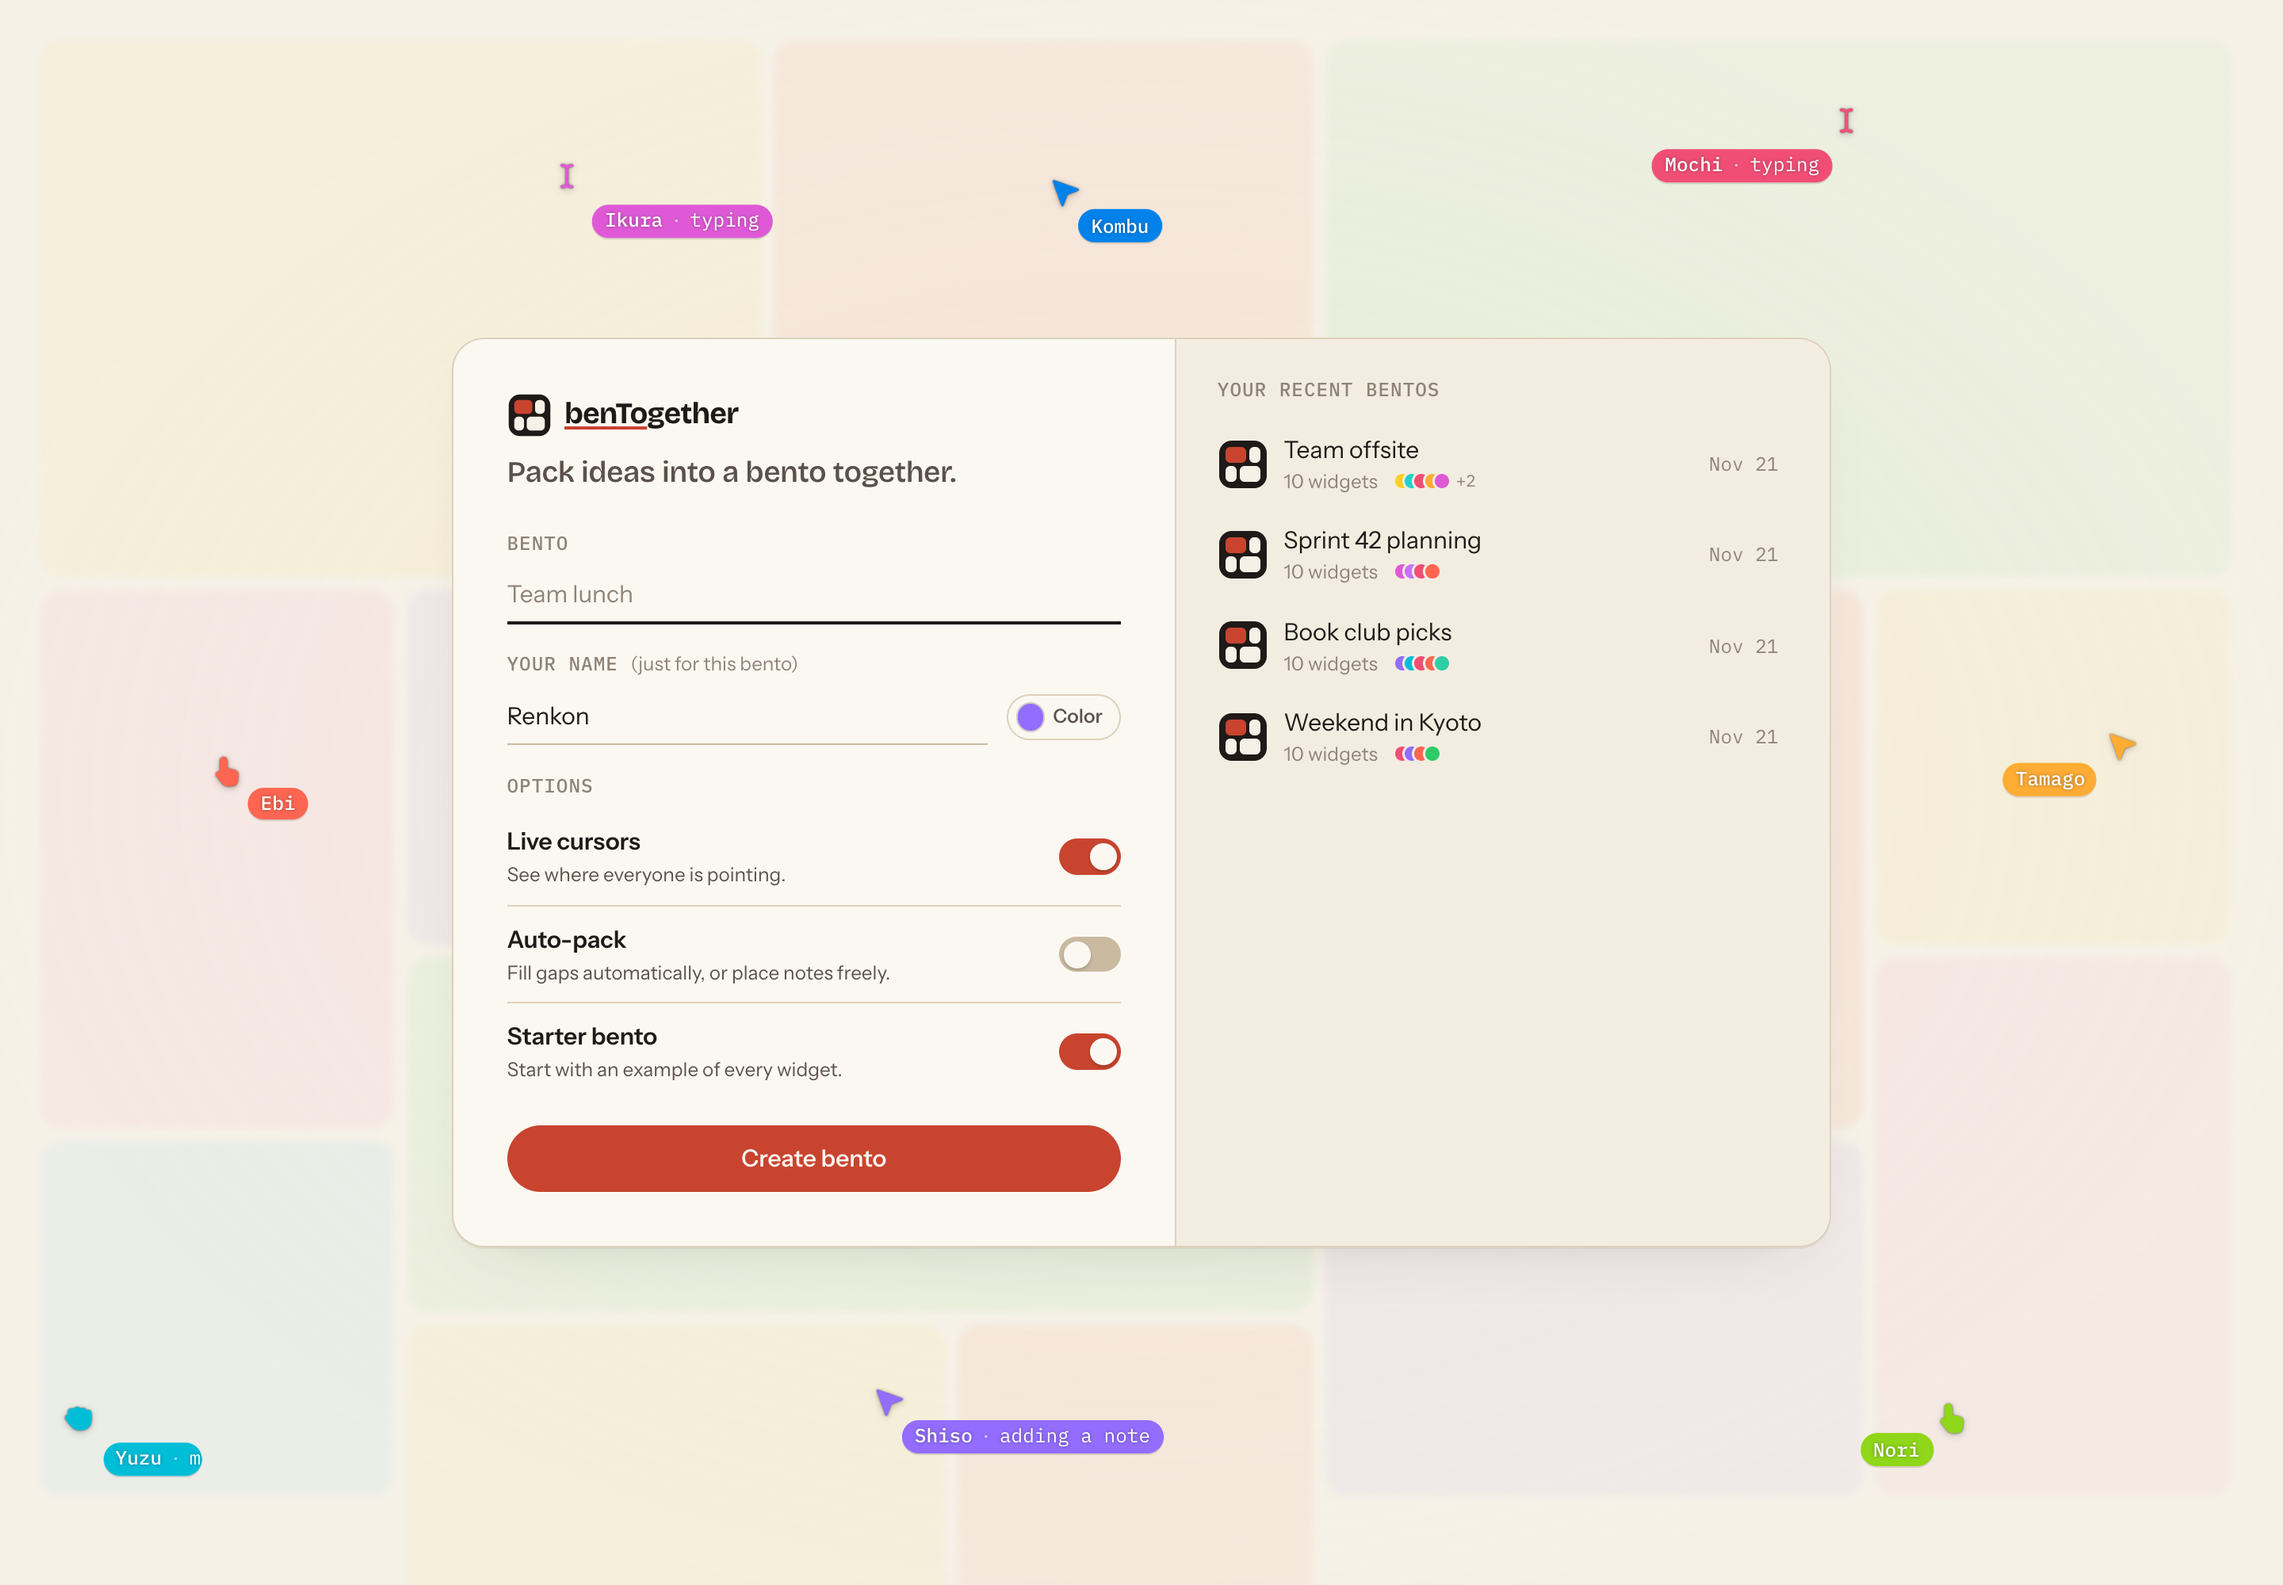
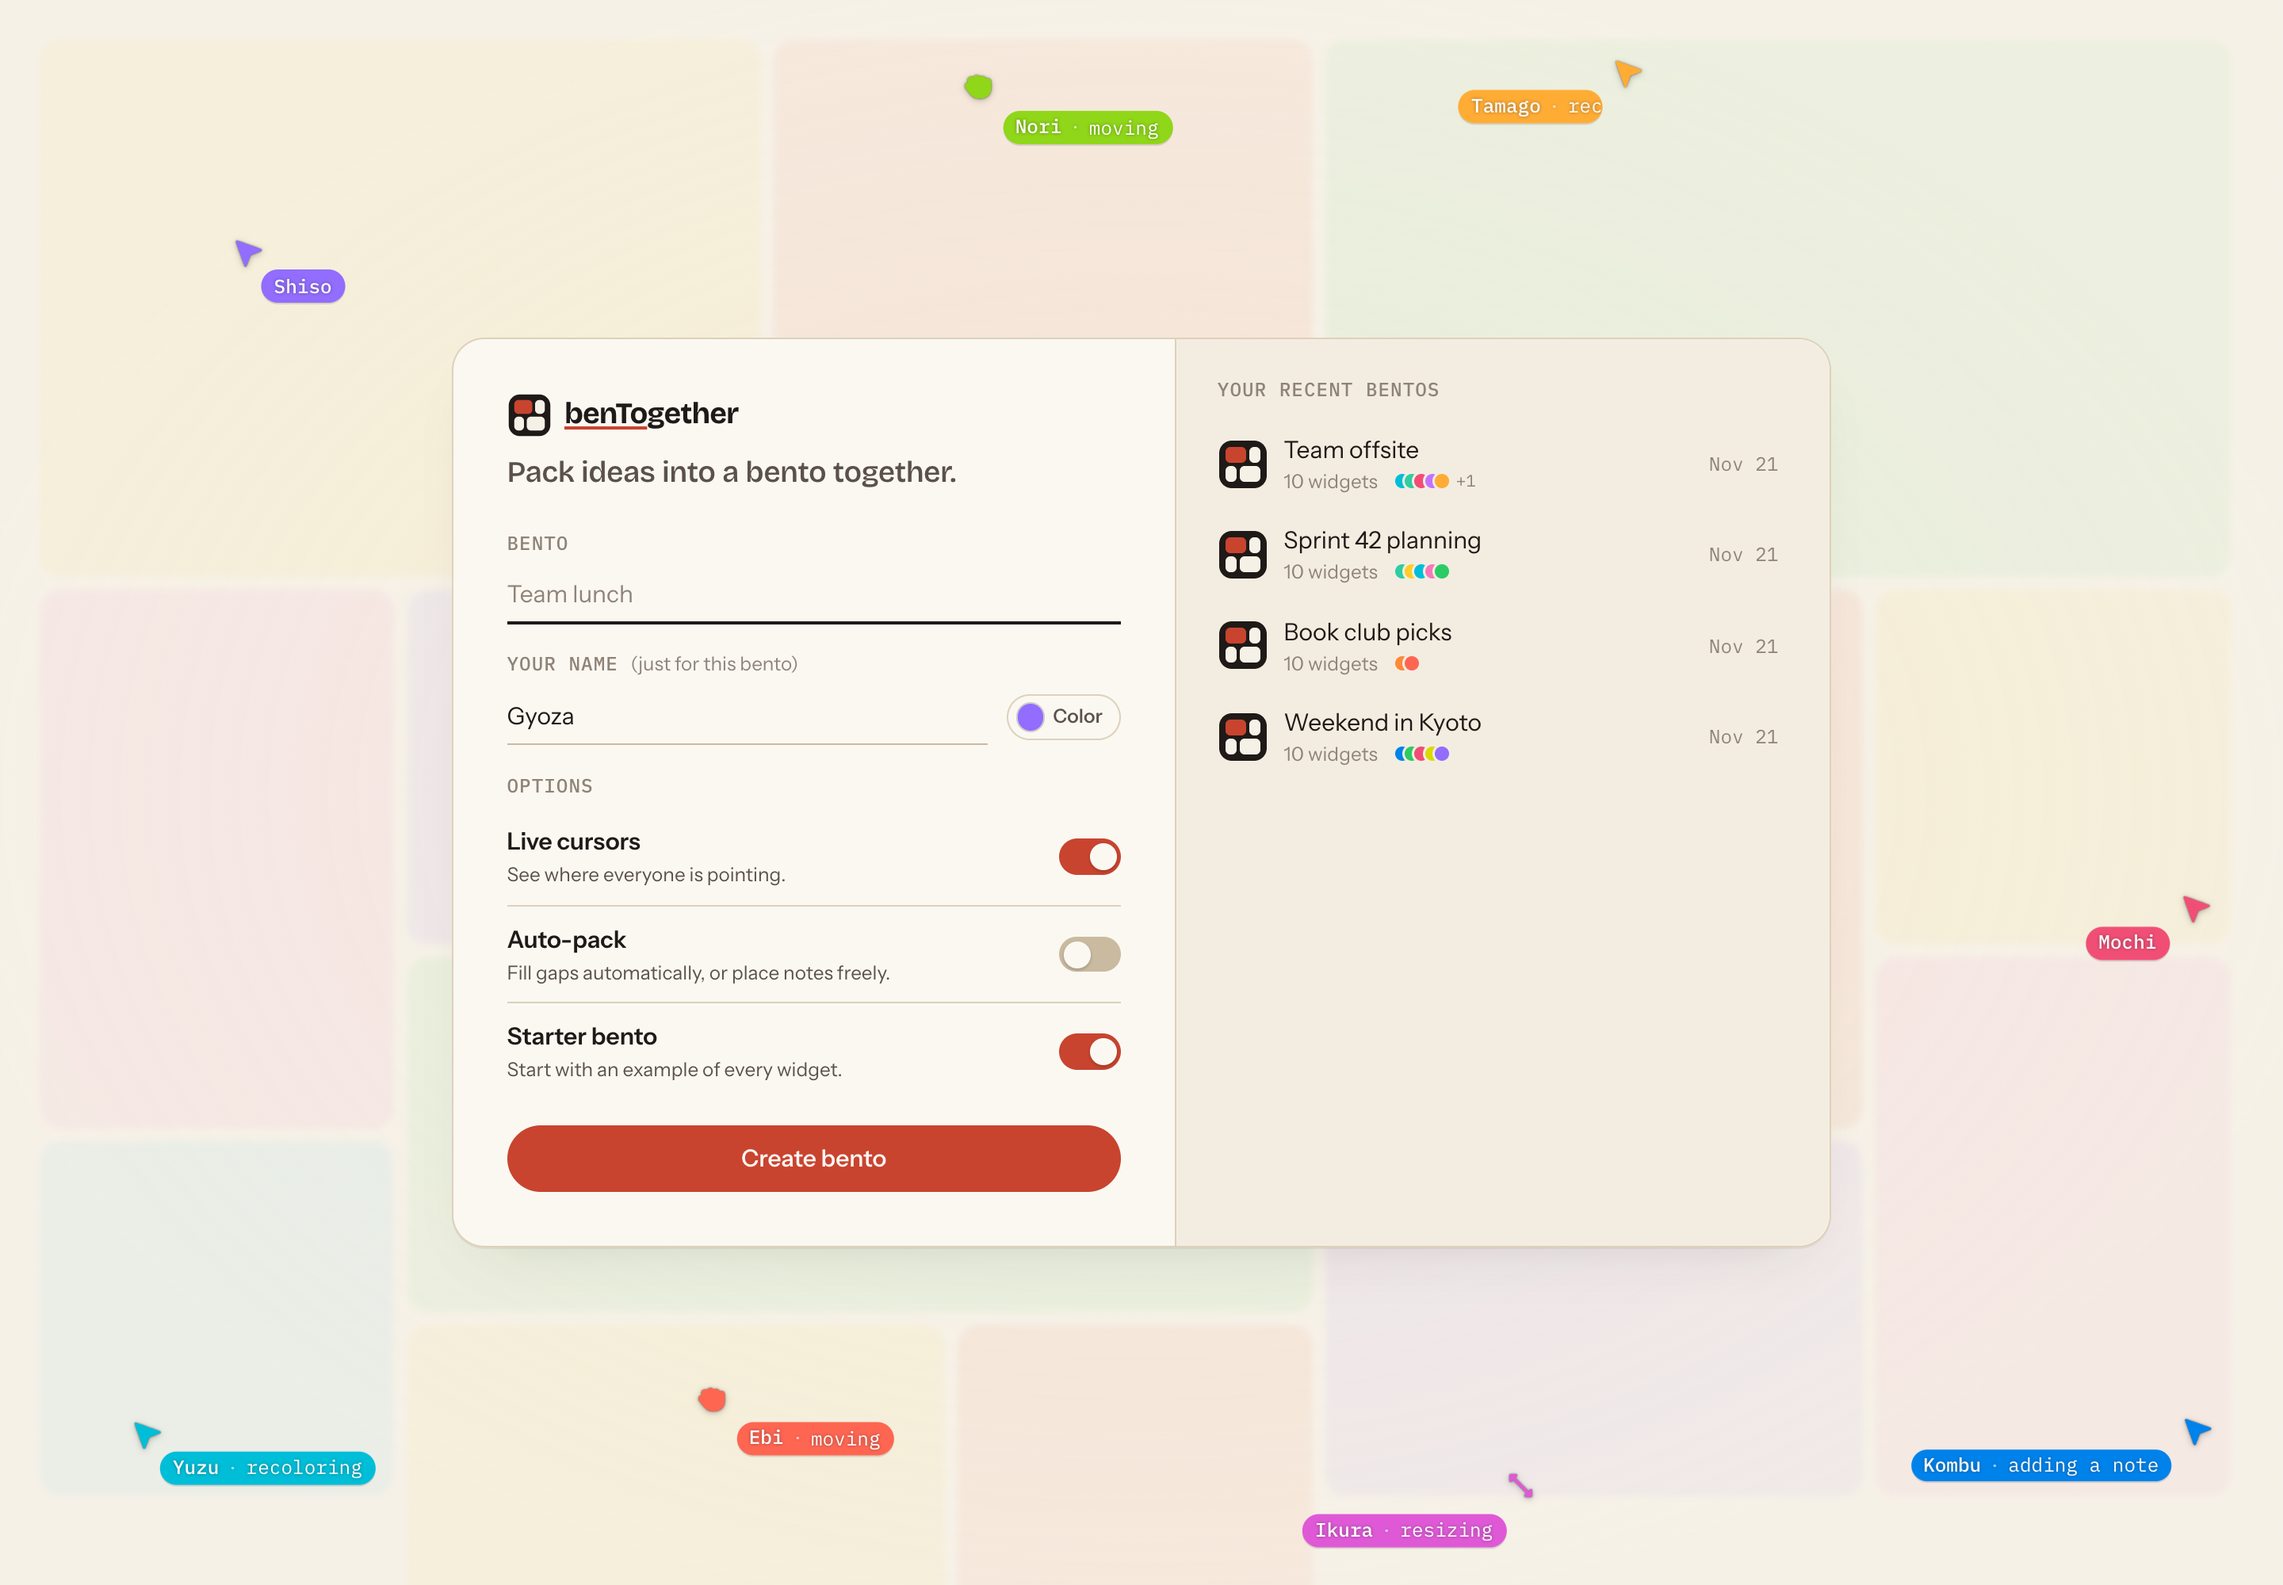
Show a typist once: the caret carries "typing"
While someone's caret is in a note, their floating cursor is hidden and
the caret's name flag reads "Name · typing" instead. The README tagline
moves back below the title, in italics, and screenshots are re-taken.

diff --git a/apps/web/src/cursors/Cursors.tsx b/apps/web/src/cursors/Cursors.tsx
@@ -1,4 +1,4 @@
-import { createEffect, createMemo, For, onSettled } from "solid-js";
+import { createEffect, createMemo, For, onSettled, Show } from "solid-js";
 import type { Action, Peer } from "@bentogether/shared";
 import { personVars } from "../lib/identity";
 import { CursorTag } from "./CursorTag";
@@ -26,16 +26,20 @@ export function RemoteCursors(props: { peers: Peer[]; pitch: number; width: numb
     <div class={styles.layer} aria-hidden="true">
       <For each={props.peers} keyed={(p) => p.sid}>
         {(peer) => (
-          <RemoteCursor
-            name={peer().name}
-            hue={peer().hue}
-            x={peer().presence.cursor?.x ?? null}
-            y={peer().presence.cursor?.y ?? null}
-            action={peer().presence.action}
-            pitch={props.pitch}
-            width={props.width}
-            reduceMotion={props.reduceMotion}
-          />
+          // While someone's caret is in a note, the caret (with its "typing"
+          // flag) stands in for their cursor, so it isn't shown twice.
+          <Show when={!peer().presence.caret}>
+            <RemoteCursor
+              name={peer().name}
+              hue={peer().hue}
+              x={peer().presence.cursor?.x ?? null}
+              y={peer().presence.cursor?.y ?? null}
+              action={peer().presence.action}
+              pitch={props.pitch}
+              width={props.width}
+              reduceMotion={props.reduceMotion}
+            />
+          </Show>
         )}
       </For>
     </div>

diff --git a/apps/web/src/board/widgets/note/Note.tsx b/apps/web/src/board/widgets/note/Note.tsx
@@ -431,7 +431,10 @@ function CaretText(props: { text: string; carets: Caret[] }) {
           <Match when={caretOf(piece())}>
             {(c) => (
               <span class={styles.caret} style={personVars(c().hue)} aria-hidden="true">
-                <span class={styles.flag}>{c().name}</span>
+                <span class={styles.flag}>
+                  {c().name}
+                  <span class={styles.flagSep}> · </span>typing
+                </span>
               </span>
             )}
           </Match>

diff --git a/apps/web/src/board/widgets/note/Note.module.css b/apps/web/src/board/widgets/note/Note.module.css
@@ -198,6 +198,10 @@
   pointer-events: none;
 }
 
+.flagSep {
+  opacity: 0.6;
+}
+
 @keyframes blink {
   50% {
     border-left-color: transparent;

diff --git a/README.md b/README.md
@@ -1,7 +1,9 @@
 <h1>
   <img src="apps/web/public/favicon.svg" alt="" width="40" height="40" align="absmiddle">
-  benTogether <sub><i>Pack ideas into a bento together.</i></sub>
+  benTogether
 </h1>
+
+_Pack ideas into a bento together._
 
 A live, multiplayer bento board. Share a link and everyone can contribute to notes, tasks, polls, events, and more.
 
